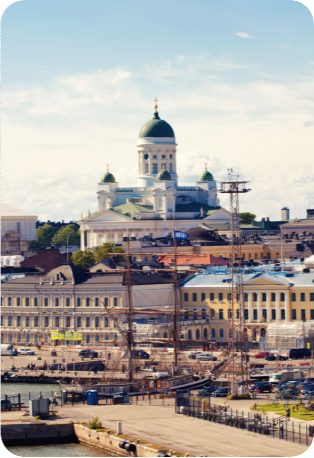
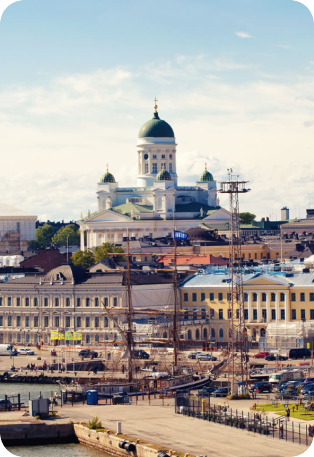
destination

diff --git a/index.html b/index.html
@@ -142,7 +142,7 @@
 
         <div class="card-destination">
             <div class="img-destination">
-                <img src="/assets/img/destination/london.jpg" alt="London, UK">
+                <img class="destination" src="/assets/img/destination/london.jpg" alt="London, UK">
             </div>
             <div class="information-trip">
                 <div class="destination-price">
@@ -155,11 +155,12 @@
                 </div>
             </div>
         </div>
+
         <!-- EUROPE -->
 
         <div class="card-destination">
             <div class="img-destination">
-                <img src="/assets/img/destination/europe.png" alt="Europe">
+                <img class="destination" src="/assets/img/destination/europe.png" alt="Europe">
             </div>
             <div class="information-trip">
                 <div class="destination-price">
@@ -170,10 +171,9 @@
                     <img class="navi" src="/assets/img/navigation.png" alt="">
                     <p class="time">28 Days Trip</p>
                 </div>
+                <!-- <img class="bouclet" src="/assets/img/bcg_img/decore2.png" alt=""> -->
             </div>
-            <img class="" src="/assets/img/bcg_img/decore2.png" alt="">
         </div>
-
     </div>
 </body>
 </html>

diff --git a/assets/css/style.css b/assets/css/style.css
@@ -198,26 +198,36 @@ header {
 .main-card-destination {
     display: flex;
     justify-content: center;
-    justify-content: space-around;
+    margin-top: 50px;
 }
 
-.img-destination {
-    box-shadow: -1px 0px 20px 0px #0000001a;
-    border-radius:0 0 15px 15px;
+.card-destination {
+    margin: 0px 25px 0px 25px;
 }
 
+.destination {
+    box-shadow: 0px 13px 20px 0px #0000001a;;
+    border-radius:0 0 25px 25px;
+}
 
 
 .information-trip {
     background-color: white;
     padding: 15px;
     position: relative;
-    top: -142px;
-    border-radius:0 0 15px 15px;
+    top: -141px;
+    border-radius: 0 0 25px 25px;
 }
 .destination-price {
     display: flex;
     justify-content: space-between;
+
+    .city {
+        color: #5E6282;
+    }
+    .price {
+        color: #5E6282;
+    }
 }
 
 .time-trip{
@@ -226,9 +236,6 @@ header {
 
     .time {
         margin-left: 20px;
+        color: #5E6282;
     }
 }
-
-
-
-
